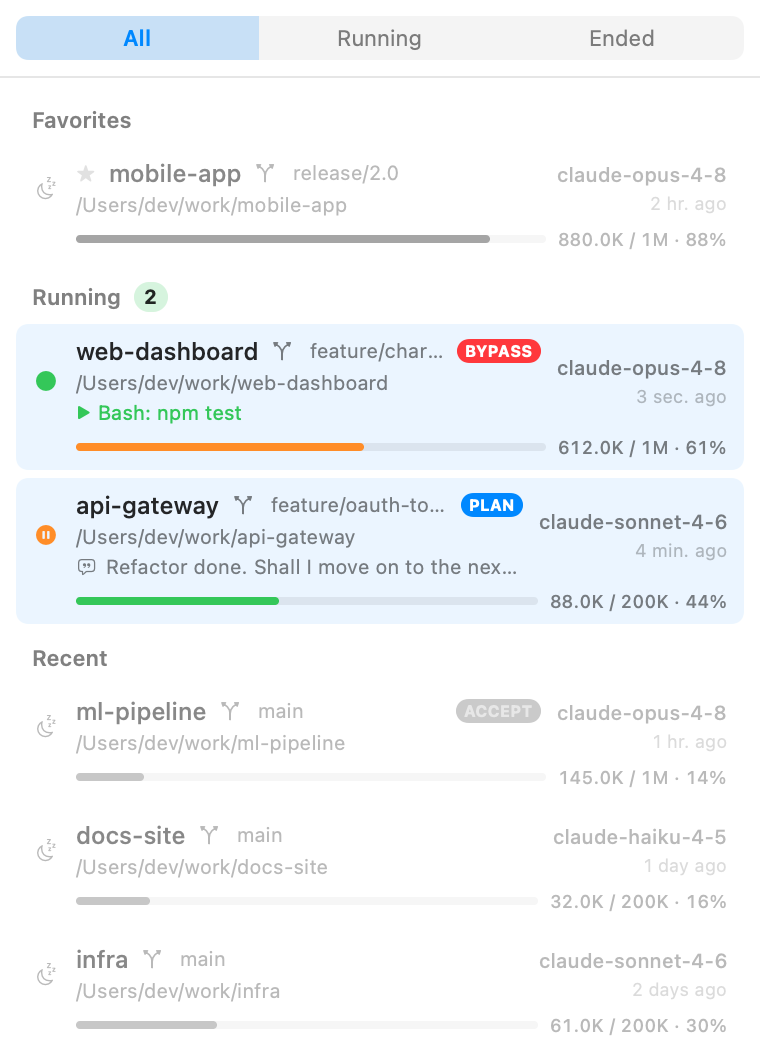
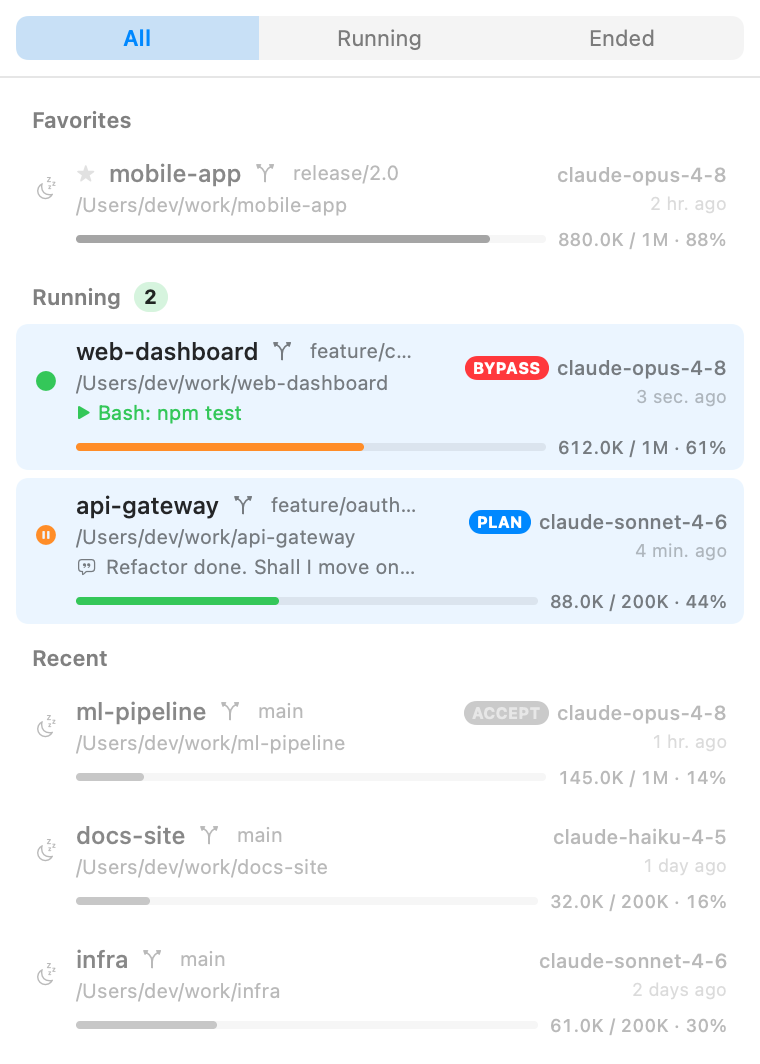
[FIX] 세션 행 레이아웃 재수정: 폴더명 클리핑 회귀 해결, 모드 뱃지 우측 모델 옆으로

diff --git a/Sources/ClaudeBar/Features/SessionListView.swift b/Sources/ClaudeBar/Features/SessionListView.swift
@@ -156,10 +156,8 @@ private struct SessionRow: View {
                         Text(session.folderName)
                             .font(.system(size: 12, weight: .medium))
                             .lineLimit(1)
-                            .fixedSize()                 // keep the name intact
-                        // Branch fills the row and truncates with … only when it
-                        // actually overflows; if there's no branch, a Spacer holds
-                        // the place. Either way the mode badge sits at the right.
+                            .layoutPriority(1)           // keep the name; truncate branch first
+                        // Branch on a single line; truncate with … only if too long.
                         if let branch = session.gitBranch, branch != "HEAD" {
                             Label(branch, systemImage: "arrow.triangle.branch")
                                 .font(.system(size: 10))
@@ -167,19 +165,6 @@ private struct SessionRow: View {
                                 .labelStyle(.titleAndIcon)
                                 .lineLimit(1)
                                 .truncationMode(.tail)
-                                .frame(maxWidth: .infinity, alignment: .leading)
-                        } else {
-                            Spacer(minLength: 4)
-                        }
-                        if let mode = modeBadge {
-                            Text(mode.text)
-                                .font(.system(size: 8, weight: .bold))
-                                .foregroundStyle(.white)
-                                .padding(.horizontal, 4)
-                                .padding(.vertical, 1)
-                                .background(mode.color)
-                                .clipShape(Capsule())
-                                .fixedSize()
                         }
                     }
                     Text(session.cwd)
@@ -201,16 +186,30 @@ private struct SessionRow: View {
                         .foregroundStyle(session.status == .busy ? Color.green : Color.secondary)
                     }
                 }
-                .frame(maxWidth: .infinity, alignment: .leading)
 
+                Spacer(minLength: 6)
+
+                // Model / time, with the permission-mode badge pinned at the far right.
                 VStack(alignment: .trailing, spacing: 2) {
-                    Text(Format.model(session.model))
-                        .font(.system(size: 10, weight: .medium))
-                        .foregroundStyle(.secondary)
+                    HStack(spacing: 4) {
+                        if let mode = modeBadge {
+                            Text(mode.text)
+                                .font(.system(size: 8, weight: .bold))
+                                .foregroundStyle(.white)
+                                .padding(.horizontal, 4)
+                                .padding(.vertical, 1)
+                                .background(mode.color)
+                                .clipShape(Capsule())
+                        }
+                        Text(Format.model(session.model))
+                            .font(.system(size: 10, weight: .medium))
+                            .foregroundStyle(.secondary)
+                    }
                     Text(Format.ago(session.lastActivity))
                         .font(.system(size: 9))
                         .foregroundStyle(.tertiary)
                 }
+                .fixedSize()
             }
 
             if let fraction = session.contextFraction, let tokens = session.contextTokens {

diff --git a/docs/change-log/2026-06-12.md b/docs/change-log/2026-06-12.md
@@ -290,9 +290,9 @@
 
 ## [FIX] 세션 행 브랜치/모드 뱃지 레이아웃
 
-증상: git 브랜치가 두 줄로 줄바꿈되고 모드 뱃지가 그 옆에 떠 보임.
+증상: git 브랜치가 두 줄로 줄바꿈되고 모드 뱃지가 옆에 떠 보임. (1차 수정에서 `maxWidth`+`fixedSize` 충돌로 폴더명이 왼쪽으로 잘리는 회귀 발생 → 재수정)
 
-수정: 좌측 컬럼을 `maxWidth: .infinity`로 채우고, **브랜치 Label을 한 줄(`lineLimit(1)` + `.tail` 말줄임)**로 — 넘칠 때만 `…`. 브랜치가 공간을 채우며(브랜치 없으면 Spacer) **모드 뱃지를 우측 끝으로** 밀어냄. 폴더명은 `fixedSize`로 보존.
+최종: **모드 뱃지를 우측 모델명 옆**(오른쪽 컬럼)으로 이동. 브랜치는 좌측에서 **한 줄 + `.tail` 말줄임**(넘칠 때만 `…`), 폴더명은 `layoutPriority`로 보존(브랜치가 먼저 잘림). 실제 데이터로 폴더명 클리핑·줄바꿈 없음 확인.
 
 ### 변경 파일
 - `Features/SessionListView.swift`, `MockData.swift`(스크린샷용 브랜치), `docs/images/sessions.png`·`ko/`
